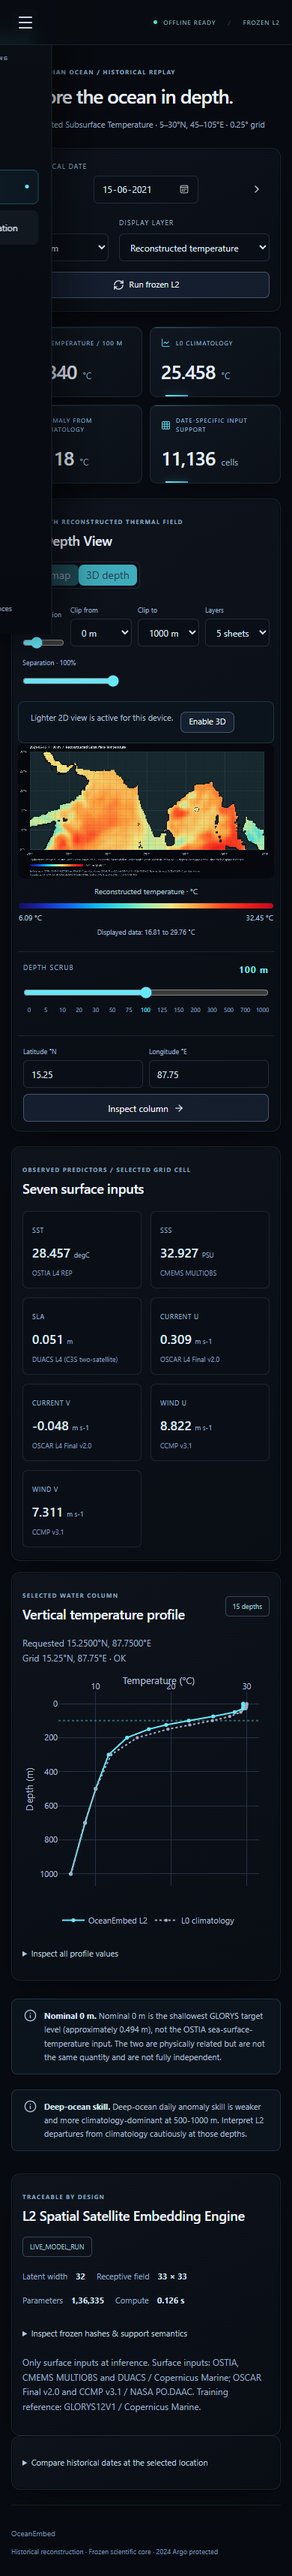
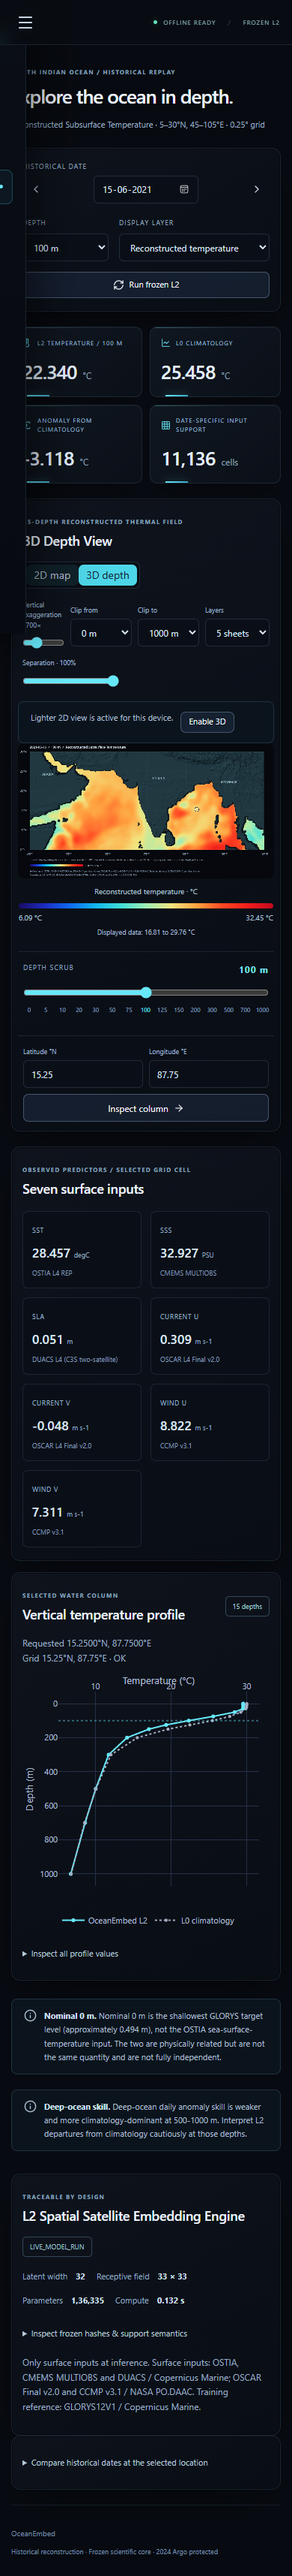
Changes Before Pin

diff --git a/web/src/components/MapView.tsx b/web/src/components/MapView.tsx
@@ -1,4 +1,4 @@
-import { useEffect, useRef } from "react";
+import { useEffect, useRef, useState } from "react";
 import { rangeFor, type ScaleMode } from "../field/colors";
 import { depthColor as color, depthGradient } from "../field/depthColors";
 import {
@@ -6,9 +6,9 @@ import {
   type Layer,
   type Palette,
   type Selection,
-  offset,
 } from "../field/contract";
 import { Colorbar } from "./Colorbar";
+import { currentMapRelief, loadMapRelief, mapRaster } from "../field/mapAppearance";
 export interface MapProps {
   field: FieldView;
   layer: Layer;
@@ -24,6 +24,7 @@ const W = 1440,
   top = 45,
   width = 1320,
   height = 555;
+const rasterCache = new WeakMap<FieldView, Map<string, Uint8ClampedArray>>();
 export function drawMap(
   canvas: HTMLCanvasElement,
   {
@@ -43,27 +44,28 @@ export function drawMap(
   const range = rangeFor(f, layer, [depth], scaleMode),
     cw = width / f.lon.length,
     ch = height / f.lat.length;
-  for (let r = 0; r < f.lat.length; r++)
-    for (let col = 0; col < f.lon.length; col++) {
-      const i = r * f.lon.length + col,
-        v = f[layer][offset(f, r, col, depth)];
-      // Land is a neutral dark grey, matching the 3D view; cells with no valid
-      // input for this date stay near-black. Neither is ever coloured by
-      // temperature, and neither carries any elevation.
-      c.fillStyle = !f.ocean[i]
-        ? "#182a30"
-        : !f.inputValid[i] || !Number.isFinite(v)
-          ? "#0d1119"
-          : `rgb(${color(v, range, layer, palette).join(",")})`;
-      c.fillRect(
-        left + col * cw,
-        top + (f.lat.length - 1 - r) * ch,
-        cw + 0.25,
-        ch + 0.25,
-      );
-    }
+  let cached = rasterCache.get(f);
+  if (!cached) rasterCache.set(f, cached = new Map());
+  const key = `${layer}/${depth}/${palette}/${range.min}/${range.max}`;
+  let pixels = cached.get(key);
+  if (!pixels) {
+    pixels = mapRaster(f,layer,depth,palette,range,width,height);
+    if (cached.size >= 6) cached.delete(cached.keys().next().value!);
+    cached.set(key,pixels);
+  }
+  const imageData = c.createImageData(width,height);
+  if (imageData?.data) {
+    imageData.data.set(pixels);
+    c.putImageData(imageData,left,top);
+  }
+  const relief = currentMapRelief();
+  if (relief) {
+    c.imageSmoothingEnabled = true;
+    c.imageSmoothingQuality = "high";
+    c.drawImage(relief,left,top,width,height);
+  }
   c.font = "17px system-ui";
-  c.strokeStyle = "#a2bad52b";
+  c.strokeStyle = "#a2bad512";
   c.lineWidth = 1;
   for (let lon = 45; lon <= 105; lon += 10) {
     const x = left + ((lon - 45) / 0.25 + 0.5) * cw;
@@ -89,6 +91,17 @@ export function drawMap(
     left,
     28,
   );
+  if (relief) {
+    c.font = "500 18px system-ui";
+    c.fillStyle = "#91b2be";
+    c.textAlign = "center";
+    for (const [name,lon,lat] of [
+      ["I N D I A",78,23], ["ARABIA",49.5,24], ["MYANMAR",96,22],
+    ] as const) {
+      c.fillText(name,left+((lon-45)/.25+.5)*cw,top+((30-lat)/.25+.5)*ch);
+    }
+    c.textAlign = "start";
+  }
   if (selection.row >= 0) {
     const x = left + (selection.col + 0.5) * cw,
       y = top + (f.lat.length - selection.row - 0.5) * ch;
@@ -103,10 +116,10 @@ export function drawMap(
     c.arc(x, y, 12, 0, Math.PI * 2);
     c.stroke();
   }
-  c.font = "16px system-ui";
+  c.font = "14px system-ui";
   c.fillStyle = "#a3b4cb";
   c.fillText(
-    `Equirectangular grid · neutral land / dark unavailable · no spatial interpolation · color scale: ${
+    `Smooth display interpolation · dark = unavailable · ${relief ? "ETOPO shaded land" : "land relief unavailable/loading"} · scale: ${
       scaleMode === "field"
         ? "whole reconstruction, all 15 depths (compare dates using their displayed ranges)"
         : "this depth only (NOT comparable across depths or dates)"
@@ -137,6 +150,12 @@ export function drawMap(
 }
 export function MapView(props: MapProps) {
   const ref = useRef<HTMLCanvasElement>(null);
+  const [reliefReady, setReliefReady] = useState(!!currentMapRelief());
+  useEffect(() => {
+    let active = true;
+    loadMapRelief().then(() => { if (active) setReliefReady(true); }).catch(() => {});
+    return () => { active = false; };
+  }, []);
   useEffect(() => {
     if (ref.current) drawMap(ref.current, props);
   }, [
@@ -146,6 +165,7 @@ export function MapView(props: MapProps) {
     props.palette,
     props.selection,
     props.scaleMode,
+    reliefReady,
   ]);
   return (
     <>
@@ -153,6 +173,7 @@ export function MapView(props: MapProps) {
         ref={ref}
         className="map-canvas"
         data-testid="field-map"
+        data-relief={reliefReady ? "ready" : "unavailable"}
         aria-label="North Indian Ocean map. Click to select a grid cell, or use the coordinate form."
         role="img"
         onClick={(event) => {

diff --git a/web/src/field/mapAppearance.ts b/web/src/field/mapAppearance.ts
@@ -1,0 +1,57 @@
+import { depthColor } from "./depthColors";
+import { offset, type FieldView, type Layer, type Palette } from "./contract";
+import type { Range } from "./colors";
+
+let relief: HTMLImageElement | null = null;
+let pending: Promise<HTMLImageElement> | undefined;
+export const currentMapRelief = () => relief;
+export function loadMapRelief() {
+  return pending ??= new Promise<HTMLImageElement>((resolve, reject) => {
+    const image = new Image();
+    image.onload = () => { relief = image; resolve(image); };
+    image.onerror = () => reject(new Error("Local ETOPO map relief unavailable"));
+    image.src = "/assets/terrain/map-relief.png";
+  });
+}
+
+/** Bilinear scalar display resampling, gated by the ORIGINAL containing cell.
+ * Missing/land pixels never receive invented values. Weights only use directly
+ * adjacent supported cells. No model array or selection coordinate is changed.
+ */
+export function mapRaster(f: FieldView, layer: Layer, depth: number, palette: Palette,
+  range: Range, width: number, height: number) {
+  const out = new Uint8ClampedArray(width * height * 4);
+  const nr = f.lat.length, nc = f.lon.length;
+  const sample = (r: number, c: number) => {
+    const cell = r*nc+c;
+    return f.ocean[cell] && f.inputValid[cell] ? f[layer][offset(f,r,c,depth)] : NaN;
+  };
+  for (let y=0; y<height; y++) for (let x=0; x<width; x++) {
+    const rr = nr - .5 - (y+.5)/height*nr, cc = (x+.5)/width*nc - .5;
+    const r = Math.max(0,Math.min(nr-1,Math.round(rr)));
+    const c = Math.max(0,Math.min(nc-1,Math.round(cc)));
+    let value = sample(r,c);
+    let rgb = [10,22,30];
+    if (Number.isFinite(value)) {
+      const r0 = Math.max(0,Math.min(nr-1,Math.floor(rr)));
+      const c0 = Math.max(0,Math.min(nc-1,Math.floor(cc)));
+      const r1 = Math.min(nr-1,r0+1), c1 = Math.min(nc-1,c0+1);
+      const ry = Math.max(0,Math.min(1,rr-r0)), cx = Math.max(0,Math.min(1,cc-c0));
+      const values = [sample(r0,c0), sample(r0,c1), sample(r1,c0), sample(r1,c1)];
+      // Require full support: no smoothing across missing observations/coasts.
+      if (values.every(Number.isFinite)) value = values[0]*(1-ry)*(1-cx) +
+        values[1]*(1-ry)*cx + values[2]*ry*(1-cx) + values[3]*ry*cx;
+      rgb = depthColor(value,range,layer,palette);
+      // Feather the inside of coarse support edges; never color an unsupported
+      // containing cell or invent values beyond the original scientific mask.
+      const weights = [(1-ry)*(1-cx),(1-ry)*cx,ry*(1-cx),ry*cx];
+      const coverage = values.reduce((sum,v,i) => sum + (Number.isFinite(v) ? weights[i] : 0),0);
+      const t = Math.max(0,Math.min(1,(coverage-.4)/.6));
+      const alpha = t*t*(3-2*t);
+      rgb = rgb.map((v,i) => [10,22,30][i]*(1-alpha)+v*alpha);
+    }
+    const i = (y*width+x)*4;
+    out.set([...rgb,255],i);
+  }
+  return out;
+}

diff --git a/web/src/test/mapAppearance.test.ts b/web/src/test/mapAppearance.test.ts
@@ -1,0 +1,25 @@
+import { expect, it } from "vitest";
+import { mapRaster } from "../field/mapAppearance";
+import { depthColor } from "../field/depthColors";
+import type { FieldView } from "../field/contract";
+const range = { min:0,max:30,actualMin:0,actualMax:30,count:4 };
+function field(): FieldView {
+  return { lat:new Float64Array([5,5.25]),lon:new Float64Array([45,45.25]),
+    depths:[0],temperature:new Float64Array([0,10,20,30]),
+    ocean:new Uint8Array([1,1,1,1]),inputValid:new Uint8Array([1,1,1,1]),
+  } as unknown as FieldView; // minimal raster-only fixture; no inference contract validation
+}
+it("interpolates display pixels while preserving exact field values", () => {
+  const f=field(), original=f.temperature.slice();
+  const pixels=mapRaster(f,"temperature",0,"thermal",range,3,3);
+  expect(Array.from(pixels.slice(16,19))).toEqual(depthColor(15,range,"temperature","thermal"));
+  expect(f.temperature).toEqual(original);
+});
+it("does not fill unsupported cells or interpolate through a missing neighbor", () => {
+  const f=field(); f.inputValid[3]=0;
+  const pixels=mapRaster(f,"temperature",0,"thermal",range,3,3);
+  expect(Array.from(pixels.slice(16,20))).toEqual([10,22,30,255]);
+  expect(f.inputValid[3]).toBe(0);
+  f.ocean.fill(0);
+  expect(Array.from(mapRaster(f,"temperature",0,"thermal",range,1,1))).toEqual([10,22,30,255]);
+});

diff --git a/web/src/field/exports.ts b/web/src/field/exports.ts
@@ -1,5 +1,6 @@
 import { profile, type FieldView, type Selection } from "./contract";
 import { drawMap, type MapProps } from "../components/MapView";
+import { loadMapRelief } from "./mapAppearance";
 export function download(blob: Blob, name: string) {
   const url = URL.createObjectURL(blob),
     a = document.createElement("a");
@@ -51,6 +52,7 @@ export function profileCsv(f: FieldView, selection: Selection) {
   return [header.join(","), ...lines].join("\r\n");
 }
 export async function mapPng(props: Omit<MapProps, "onSelect">) {
+  await loadMapRelief().catch(() => null);
   const canvas = document.createElement("canvas");
   drawMap(canvas, props);
   const blob = await new Promise<Blob | null>((resolve) =>

diff --git a/web/e2e/terrain.spec.ts b/web/e2e/terrain.spec.ts
@@ -1,6 +1,14 @@
 import { test, expect } from "@playwright/test";
 import { writeFile } from "node:fs/promises";
 
+test("2D map loads local ETOPO relief with the scientific map intact", async ({ page }) => {
+  await page.goto("/");
+  const map = page.getByTestId("field-map");
+  await expect(map).toHaveAttribute("data-relief", "ready");
+  await map.screenshot({ path: "../outputs/phase7b/terrain/relief-map.png" });
+  await expect(page.getByTestId("inference-source")).toHaveText("LIVE_MODEL_RUN");
+});
+
 test("real local DEM renders offline and terrain control leaves field requests and selection unchanged", async ({ page, context }) => {
   let fields = 0;
   const foreign: string[] = [];

diff --git a/scripts/poc/build_map_relief.py b/scripts/poc/build_map_relief.py
@@ -1,0 +1,46 @@
+"""Build a static 2D shaded-relief overlay from the cached real ETOPO subset."""
+from pathlib import Path
+import json
+import hashlib
+import numpy as np
+import xarray as xr
+from scipy.interpolate import RegularGridInterpolator
+from scipy.ndimage import gaussian_filter
+from PIL import Image
+
+ROOT = Path(__file__).resolve().parents[2]
+source = ROOT / "outputs/phase7b/terrain/etopo2022-60s-stride3.nc"
+out = ROOT / "web/public/assets/terrain"
+W, H = 1320, 555
+with xr.open_dataset(source) as ds:
+    dem = ds.z.sortby("latitude").sortby("longitude")
+    lat = 30.125 - (np.arange(H) + .5) * 25.25 / H
+    lon = 44.875 + (np.arange(W) + .5) * 60.25 / W
+    yy, xx = np.meshgrid(lat, lon, indexing="ij")
+    heights = RegularGridInterpolator((dem.latitude.values, dem.longitude.values), dem.values,
+                                      bounds_error=False, fill_value=np.nan)(np.stack([yy,xx],axis=-1))
+land = np.isfinite(heights) & (heights > 0)
+z = np.maximum(np.nan_to_num(heights), 0)
+
+def shade(elevation):
+    gy, gx = np.gradient(elevation)
+    gx /= 111000 * np.cos(np.deg2rad(lat[:,None])) * 60.25 / W
+    gy /= 111000 * 25.25 / H
+    nx, ny = -gx * 12, -gy * 12
+    return np.clip((-.45*nx - .6*ny + .66) / np.sqrt(nx*nx + ny*ny + 1), 0, 1)
+
+light = .75 * shade(z) + .25 * shade(gaussian_filter(z, 2))
+rgba = np.zeros((H,W,4), dtype=np.uint8)
+for c, (base, gain) in enumerate(((12,32),(25,48),(31,52))):
+    rgba[:,:,c] = np.clip(base + light * gain, 0, 255)
+rgba[:,:,3] = land.astype(np.uint8) * 255
+out.mkdir(parents=True, exist_ok=True)
+Image.fromarray(rgba).save(out / "map-relief.png")
+(out / "map-relief.json").write_text(json.dumps({
+    "dataset": "NOAA NCEI ETOPO 2022 v1, 60 arc-second product, subset sampled every third cell",
+    "sourceSha256": hashlib.sha256(source.read_bytes()).hexdigest(),
+    "processing": "Bilinear DEM sampling, positive-elevation alpha, two-scale NW hillshade, 12x lighting exaggeration only",
+    "pixelSize": [W,H], "bounds": [44.875,4.875,105.125,30.125],
+    "contextOnly": True,
+}, indent=2), encoding="utf-8")
+print(out / "map-relief.png")

diff --git a/docs/PHASE7B_2D_MAP.md b/docs/PHASE7B_2D_MAP.md
@@ -1,0 +1,46 @@
+# 2D cartographic display refinement
+
+The 2D map now combines smooth temperature display rendering with a static
+shaded-relief land overlay from the same local NOAA ETOPO 2022 source used by
+the 3D terrain. No online tiles, satellite imagery, or invented terrain are used.
+
+## Rendering
+
+- The 1320 × 555 map raster replaces overlapping per-cell canvas rectangles.
+  Bilinear interpolation is applied to displayed scalar colors only where all
+  four adjacent samples are supported. Every pixel is gated by its original
+  containing scientific cell; missing and land cells never receive invented
+  temperature values. Support edges are feathered inward only.
+- `scripts/poc/build_map_relief.py` generates the local transparent land overlay
+  from `outputs/phase7b/terrain/etopo2022-60s-stride3.nc`. Positive DEM elevations
+  supply the land mask. Northwest illumination and two-scale slope shading
+  reveal mountains and plains; 12× slope exaggeration is used only for lighting.
+- `web/public/assets/terrain/map-relief.png` and `map-relief.json` are bundled
+  into the local app. Metadata records source checksum, processing, dimensions
+  and extent. Missing/out-of-subset DEM remains transparent.
+- The coordinate mapping is unchanged: map cell-edge bounds are
+  44.875–105.125 E and 4.875–30.125 N, around the canonical cell centres.
+- Grid lines are subdued. Labels identify India, Arabia and Myanmar.
+- The legend uses the same color mapper as the field. PNG export waits for the
+  local relief overlay and uses the same drawing function. CSV/NetCDF numerical
+  exports, scientific arrays, masks, selection, and inference are unchanged.
+
+The finer DEM coast can differ from the coarse scientific mask. Data gaps stay
+dark instead of being filled to resemble the artistic reference. Smoothing
+does not add scientific resolution or manufacture the reference's hot/cold
+patterns. If the relief asset is unavailable, the map remains usable and its
+caption reports unavailable/loading relief.
+
+## Rebuild and evidence
+
+From the repository root, run:
+
+```powershell
+.\.venv\Scripts\python.exe scripts/poc/build_map_relief.py
+```
+
+Then run `npm.cmd run build` from `web/`. The generated overlay works offline.
+
+Actual screenshot: `outputs/phase7b/terrain/relief-map.png`.
+Tests cover scalar display interpolation without mutation, missing-data gating,
+local relief loading, and the existing coordinate/profile/export browser flow.
